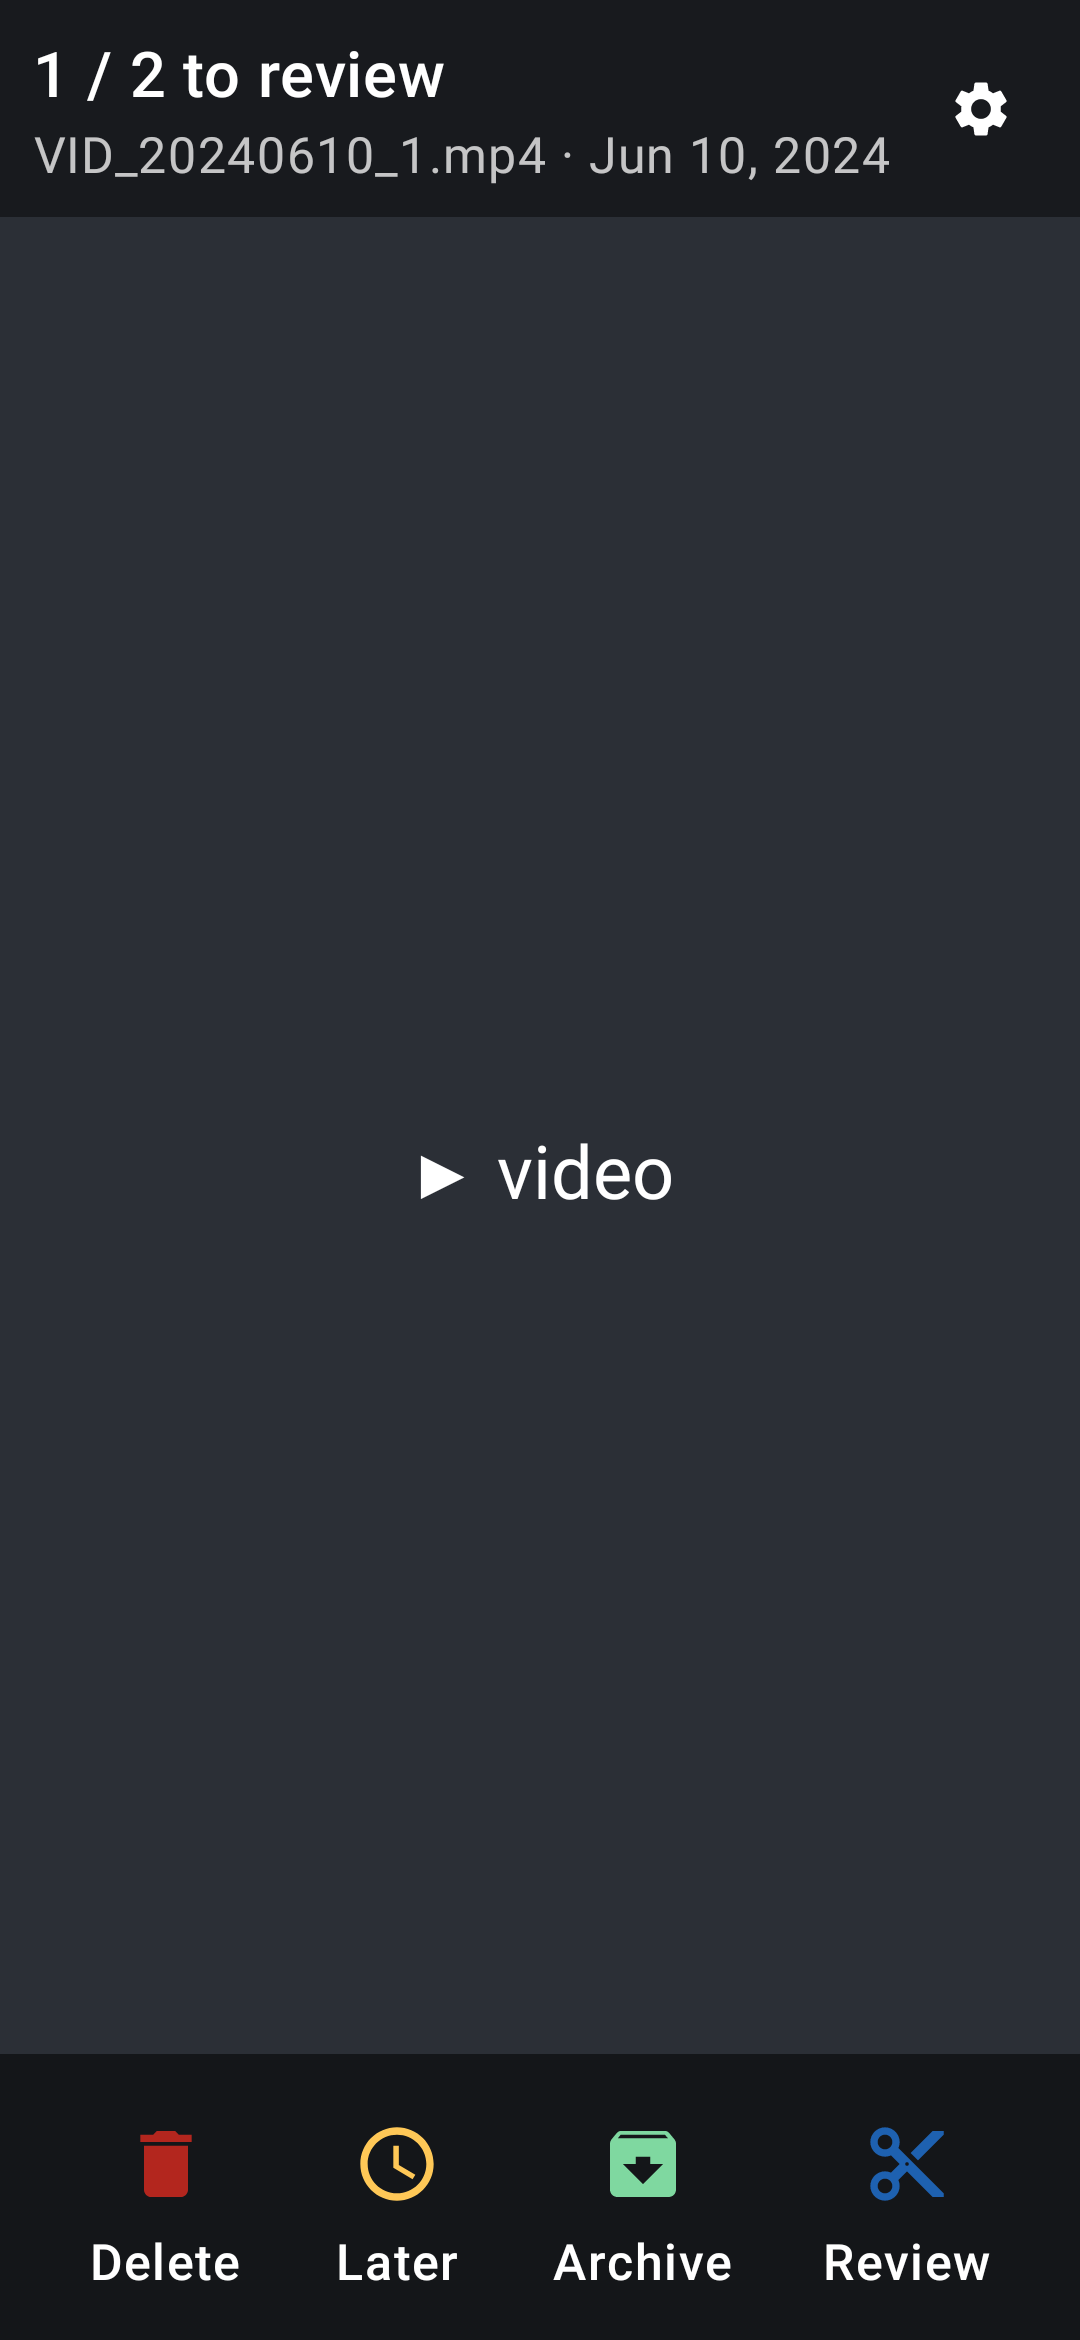
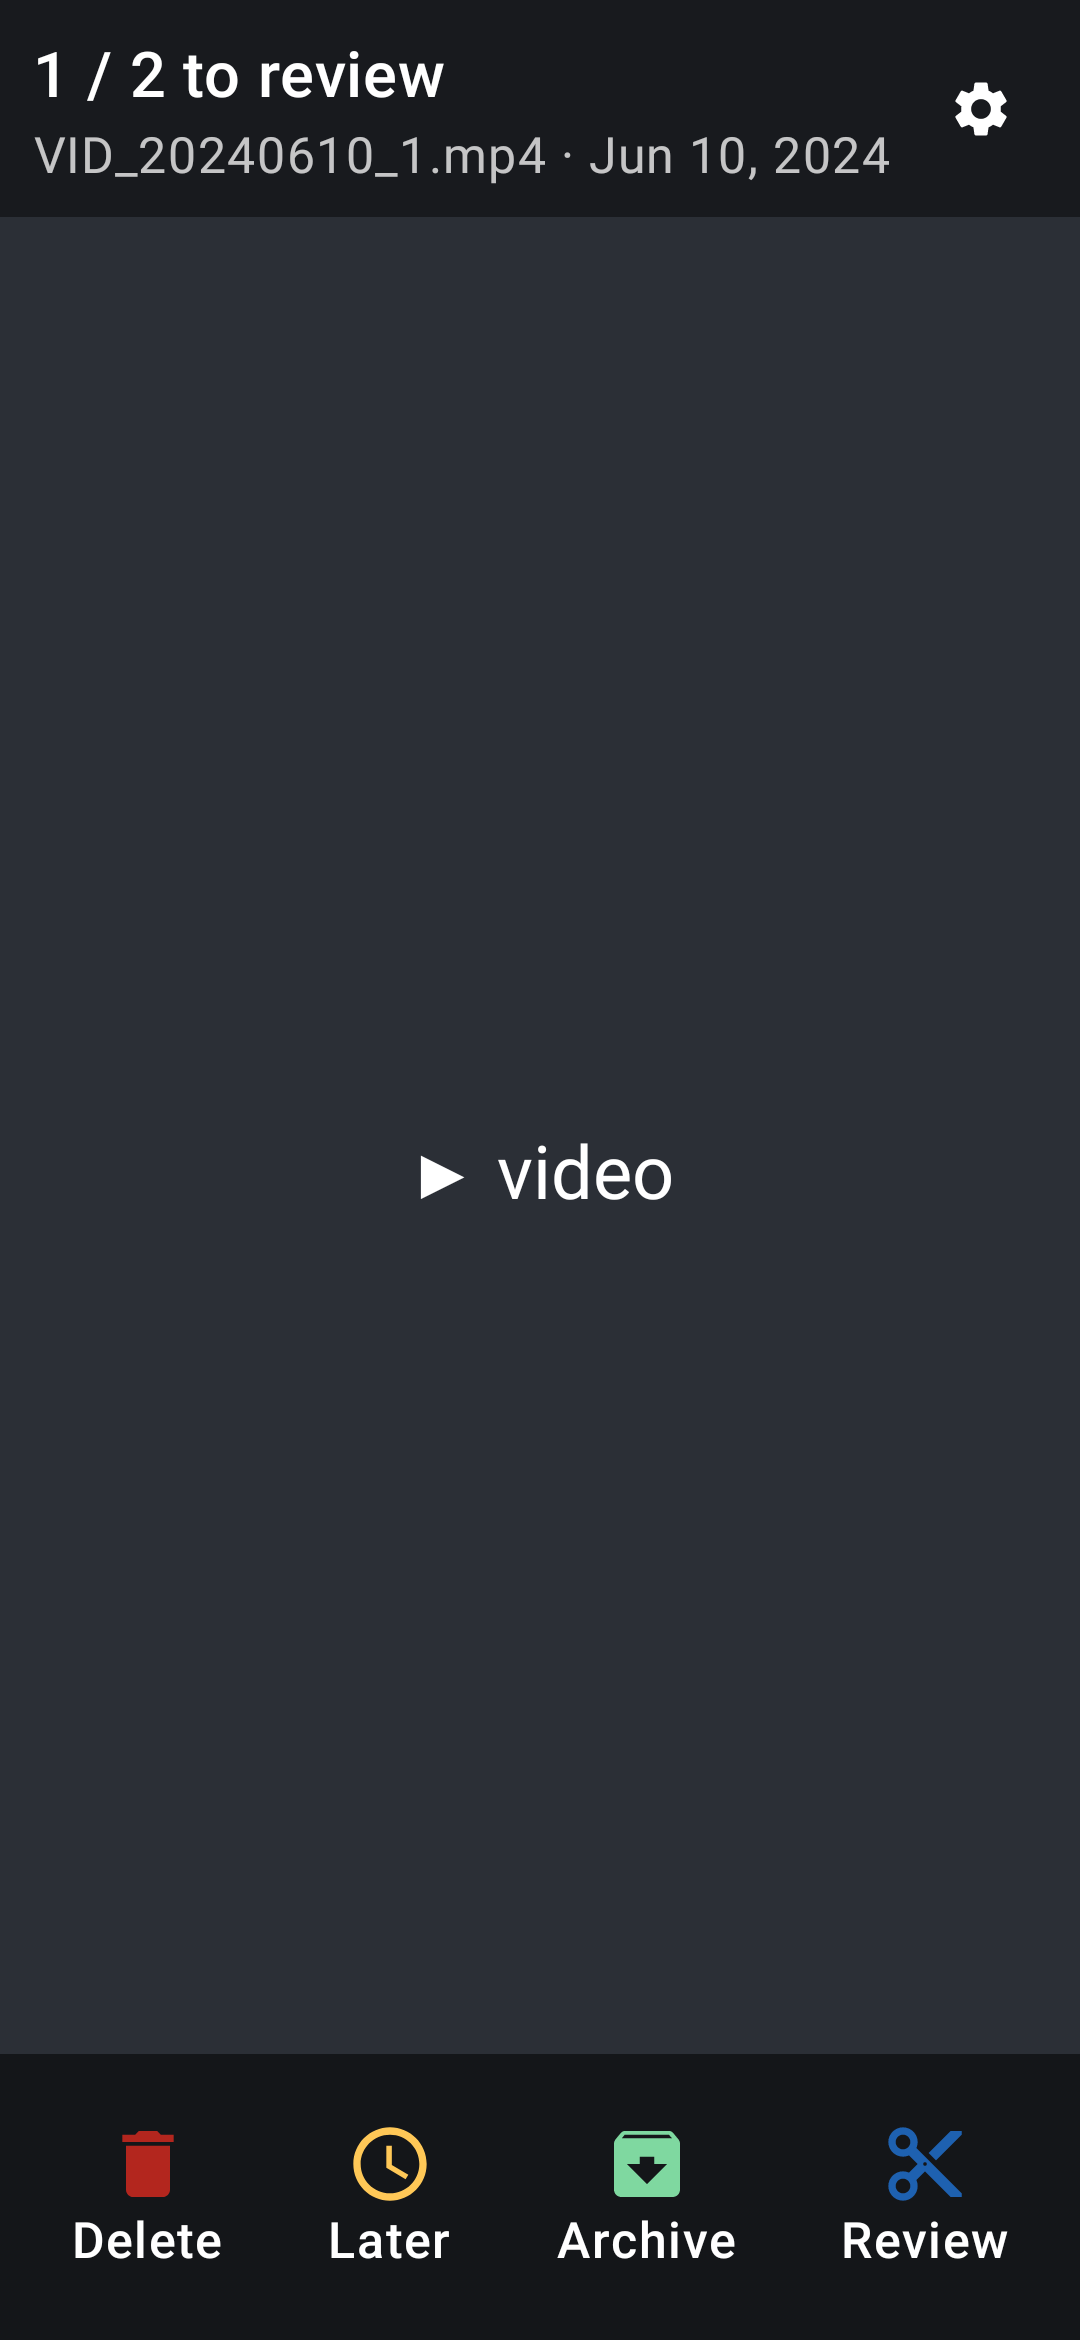
Fix accessibility findings and enforce the a11y gate
The ATF checks flagged DuplicateSpeakableText on the feed actions (icon
contentDescription duplicated the visible label) and the settings folder rows
(three identical "Choose"/"Not set" buttons).

- Feed actions are now one merged, labeled clickable per action (single
  speakable label, larger touch target, identical visuals).
- Settings folder buttons get a unique "Choose/Change <folder> folder" label.
- Raise the Roborazzi a11y gate from LogOnly to Warning so future WARNING/ERROR
  findings fail CI.
- Update feed behavior test to locate actions by text (merged semantics).

Claude-Session: https://claude.ai/code/session_01YbLYs8mC3en1dKxLdw9am7

diff --git a/app/src/main/java/com/presto/mediamanager/ui/feed/ReviewFeedScreen.kt b/app/src/main/java/com/presto/mediamanager/ui/feed/ReviewFeedScreen.kt
@@ -1,6 +1,7 @@
 package com.presto.mediamanager.ui.feed
 
 import androidx.compose.foundation.background
+import androidx.compose.foundation.clickable
 import androidx.compose.foundation.layout.Arrangement
 import androidx.compose.foundation.layout.Box
 import androidx.compose.foundation.layout.Column
@@ -11,6 +12,7 @@ import androidx.compose.foundation.layout.padding
 import androidx.compose.foundation.layout.size
 import androidx.compose.foundation.pager.VerticalPager
 import androidx.compose.foundation.pager.rememberPagerState
+import androidx.compose.foundation.shape.RoundedCornerShape
 import androidx.compose.material.icons.Icons
 import androidx.compose.material.icons.filled.Archive
 import androidx.compose.material.icons.filled.ContentCut
@@ -32,7 +34,10 @@ import androidx.compose.runtime.rememberCoroutineScope
 import androidx.compose.runtime.setValue
 import androidx.compose.ui.Alignment
 import androidx.compose.ui.Modifier
+import androidx.compose.ui.draw.clip
 import androidx.compose.ui.graphics.Color
+import androidx.compose.ui.semantics.Role
+import androidx.compose.ui.semantics.semantics
 import androidx.compose.ui.text.font.FontWeight
 import androidx.compose.ui.unit.dp
 import androidx.lifecycle.viewmodel.compose.viewModel
@@ -196,10 +201,17 @@ private fun FeedAction(
     tint: Color,
     onClick: () -> Unit,
 ) {
-    Column(horizontalAlignment = Alignment.CenterHorizontally) {
-        IconButton(onClick = onClick) {
-            Icon(icon, contentDescription = label, tint = tint, modifier = Modifier.size(32.dp))
-        }
+    // One merged, labeled clickable: the visible text is the single speakable
+    // label (no icon/label duplication) and the whole column is the touch target.
+    Column(
+        horizontalAlignment = Alignment.CenterHorizontally,
+        modifier = Modifier
+            .clip(RoundedCornerShape(12.dp))
+            .clickable(onClick = onClick, role = Role.Button)
+            .semantics(mergeDescendants = true) {}
+            .padding(horizontal = 12.dp, vertical = 8.dp),
+    ) {
+        Icon(icon, contentDescription = null, tint = tint, modifier = Modifier.size(32.dp))
         Text(label, color = Color.White, style = MaterialTheme.typography.labelMedium)
     }
 }

diff --git a/app/src/main/java/com/presto/mediamanager/ui/settings/SettingsScreen.kt b/app/src/main/java/com/presto/mediamanager/ui/settings/SettingsScreen.kt
@@ -30,6 +30,8 @@ import androidx.compose.runtime.collectAsState
 import androidx.compose.runtime.getValue
 import androidx.compose.ui.Alignment
 import androidx.compose.ui.Modifier
+import androidx.compose.ui.semantics.contentDescription
+import androidx.compose.ui.semantics.semantics
 import androidx.compose.ui.text.style.TextOverflow
 import androidx.compose.ui.unit.dp
 import androidx.lifecycle.viewmodel.compose.viewModel
@@ -185,8 +187,13 @@ private fun FolderRow(
                     overflow = TextOverflow.Ellipsis,
                 )
             }
-            OutlinedButton(onClick = { launcher.launch(null) }) {
-                Text(if (uri == null) "Choose" else "Change")
+            val action = if (uri == null) "Choose" else "Change"
+            OutlinedButton(
+                onClick = { launcher.launch(null) },
+                // Unique speakable label per row so screen readers can tell them apart.
+                modifier = Modifier.semantics { contentDescription = "$action $title folder" },
+            ) {
+                Text(action)
             }
         }
     }

diff --git a/app/src/test/java/com/presto/mediamanager/screenshot/AccessibilityTests.kt b/app/src/test/java/com/presto/mediamanager/screenshot/AccessibilityTests.kt
@@ -21,9 +21,9 @@ import org.robolectric.annotation.GraphicsMode
 
 /**
  * Accessibility checks (Android Accessibility Test Framework via Roborazzi) on
- * key screens — touch-target size, contrast, and label presence. Reported at
- * LogOnly for now (the feed action buttons and the day stepper have pre-existing
- * touch-target/contrast findings); raise to Error once those are fixed.
+ * key screens — touch-target size, contrast, and label presence. Enforced at
+ * Warning level (fails CI on WARNING or ERROR findings) now that the duplicate
+ * speakable-text issues on the feed actions and settings rows are fixed.
  */
 @RunWith(RobolectricTestRunner::class)
 @GraphicsMode(GraphicsMode.Mode.NATIVE)
@@ -35,7 +35,7 @@ class AccessibilityTests {
 
     private val options = RoborazziATFAccessibilityCheckOptions(
         checker = RoborazziATFAccessibilityChecker(preset = AccessibilityCheckPreset.LATEST),
-        failureLevel = RoborazziATFAccessibilityChecker.CheckLevel.LogOnly,
+        failureLevel = RoborazziATFAccessibilityChecker.CheckLevel.Warning,
     )
 
     @Test

diff --git a/app/src/test/java/com/presto/mediamanager/feed/FeedBehaviorTest.kt b/app/src/test/java/com/presto/mediamanager/feed/FeedBehaviorTest.kt
@@ -2,7 +2,6 @@ package com.presto.mediamanager.feed
 
 import androidx.compose.ui.test.assertIsDisplayed
 import androidx.compose.ui.test.junit4.createComposeRule
-import androidx.compose.ui.test.onNodeWithContentDescription
 import androidx.compose.ui.test.onNodeWithText
 import androidx.compose.ui.test.performClick
 import com.google.common.truth.Truth.assertThat
@@ -40,7 +39,7 @@ class FeedBehaviorTest {
                 )
             }
         }
-        composeRule.onNodeWithContentDescription("Delete").performClick()
+        composeRule.onNodeWithText("Delete").performClick()
         assertThat(deleted).isNotNull()
         assertThat(deleted!!.uri).isEqualTo("content://fake/1")
     }
@@ -60,7 +59,7 @@ class FeedBehaviorTest {
                 )
             }
         }
-        composeRule.onNodeWithContentDescription("Archive").performClick()
+        composeRule.onNodeWithText("Archive").performClick()
         composeRule.onNodeWithText("Archive clip").assertIsDisplayed()
     }
 